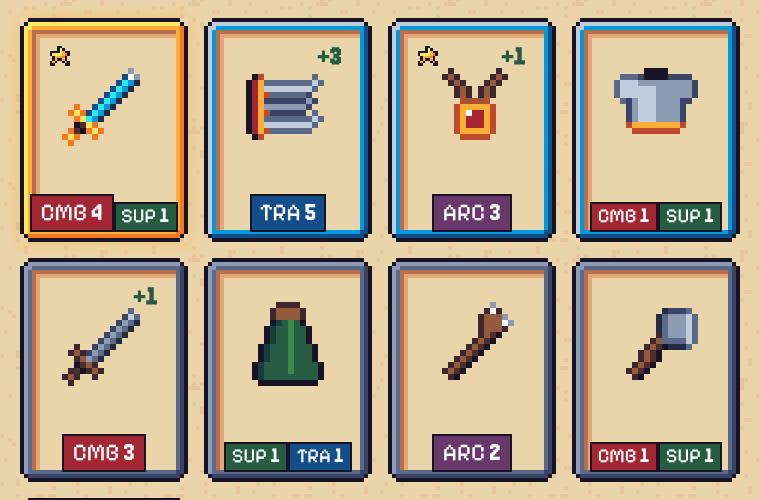
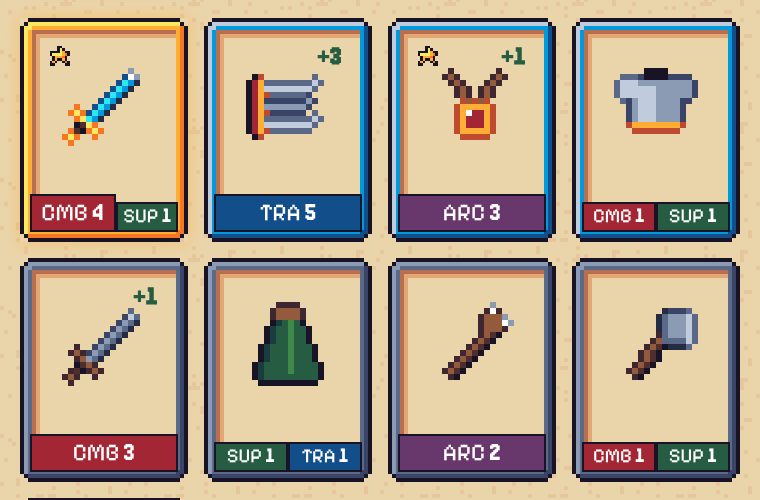
Las fichas de la casilla llenan su ancho, igual a cada lado
Claude-Session: https://claude.ai/code/session_011Wau2CDkYu9wWhFBvHTyEc

diff --git a/src/styles.css b/src/styles.css
@@ -7210,13 +7210,21 @@ p.notebook-close {
 }
 .item-chips {
   position: absolute;
-  left: -5px;
-  right: -5px;
+  left: -6px;
+  right: -6px;
   bottom: -6px;
   display: flex;
   gap: 2px;
-  justify-content: center;
   align-items: flex-end;
+}
+/* Las fichas llenan el ancho de la casilla, igual a cada lado; la mayor, algo más ancha. */
+.item-chips .item-chip {
+  flex: 1 1 0;
+  min-width: 0;
+  text-align: center;
+}
+.item-chips .item-chip.is-main {
+  flex-grow: 1.4;
 }
 .item-chip {
   display: inline-block;
